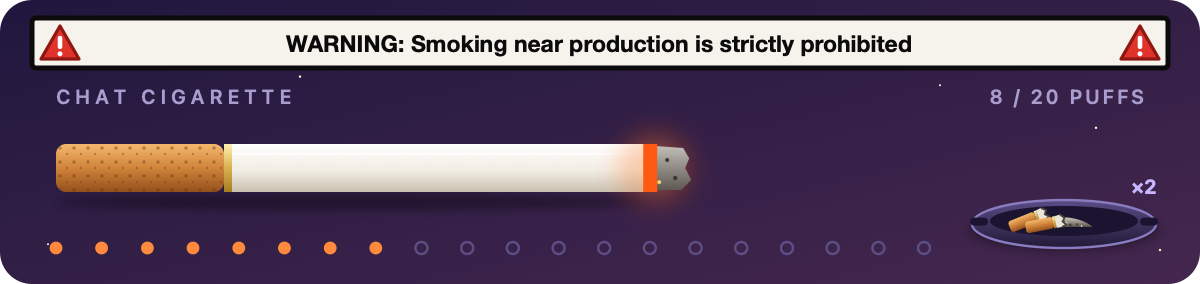
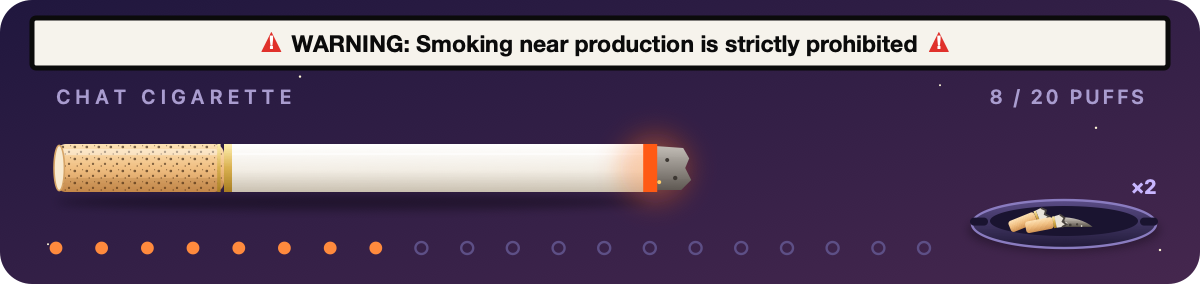
Warning signs glued to both sides of the centred sentence; lighter cigarette filter with dark specks

diff --git a/hooks/art.ts b/hooks/art.ts
@@ -68,7 +68,7 @@ function mix(a: string, b: string, t: number): string {
 function defs(night: number): string {
   return `<defs>
 <linearGradient id="sky" x1="0" y1="0" x2="1" y2="1"><stop offset="0" stop-color="${mix('#2a1d4e', '#120d26', night)}"/><stop offset="1" stop-color="${mix('#5b2f57', '#241a40', night)}"/></linearGradient>
-<linearGradient id="cork" x1="0" y1="0" x2="0" y2="1"><stop offset="0" stop-color="#f3b86d"/><stop offset=".5" stop-color="#d0843a"/><stop offset="1" stop-color="#94501d"/></linearGradient>
+<linearGradient id="cork" x1="0" y1="0" x2="0" y2="1"><stop offset="0" stop-color="#fde2b6"/><stop offset=".5" stop-color="#f0bf82"/><stop offset="1" stop-color="#cf9152"/></linearGradient>
 <linearGradient id="paper" x1="0" y1="0" x2="0" y2="1"><stop offset="0" stop-color="#ffffff"/><stop offset=".55" stop-color="#f2ede4"/><stop offset="1" stop-color="#c9c0b0"/></linearGradient>
 <linearGradient id="rollPaper" x1="0" y1="0" x2="0" y2="1"><stop offset="0" stop-color="#efdcb6"/><stop offset=".45" stop-color="#d9bf8f"/><stop offset="1" stop-color="#a4855a"/></linearGradient>
 <linearGradient id="herbTint" x1="0" y1="0" x2="0" y2="1"><stop offset="0" stop-color="#7d7a3a" stop-opacity=".04"/><stop offset=".6" stop-color="#5f6a2c" stop-opacity=".12"/><stop offset="1" stop-color="#4a4a22" stop-opacity=".22"/></linearGradient>
@@ -82,7 +82,7 @@ function defs(night: number): string {
 <radialGradient id="leafGlow"><stop offset="0" stop-color="#ff9a3c" stop-opacity=".45"/><stop offset="1" stop-color="#ff9a3c" stop-opacity="0"/></radialGradient>
 <filter id="blur" x="-50%" y="-50%" width="200%" height="200%"><feGaussianBlur stdDeviation="2.2"/></filter>
 <filter id="soft" x="-50%" y="-50%" width="200%" height="200%"><feGaussianBlur stdDeviation="5"/></filter>
-<pattern id="dots" width="7" height="7" patternUnits="userSpaceOnUse"><circle cx="2" cy="2" r=".9" fill="#6b3510" opacity=".45"/><circle cx="5.5" cy="5" r=".7" fill="#6b3510" opacity=".35"/></pattern>
+<pattern id="dots" width="6" height="6" patternUnits="userSpaceOnUse"><circle cx="1.4" cy="1.5" r=".75" fill="#2a1506" opacity=".6"/><circle cx="4.5" cy="3.9" r=".65" fill="#2a1506" opacity=".55"/><circle cx="2.6" cy="5" r=".45" fill="#3d2410" opacity=".5"/><circle cx="5.3" cy=".9" r=".4" fill="#3d2410" opacity=".45"/></pattern>
 <pattern id="herb" width="9" height="7" patternUnits="userSpaceOnUse"><circle cx="1.5" cy="2.5" r="1" fill="#55602a" opacity=".42"/><circle cx="6" cy="5.2" r=".85" fill="#3c4a1d" opacity=".42"/><circle cx="7" cy="1.3" r=".55" fill="#7d8a3e" opacity=".38"/><circle cx="3.6" cy="5.9" r=".5" fill="#5e4a27" opacity=".45"/></pattern>
 <pattern id="fiber" width="23" height="5" patternUnits="userSpaceOnUse"><line x1="0" y1="1" x2="14" y2="1.4" stroke="#f3e2bf" stroke-width=".5" opacity=".7"/><line x1="8" y1="3.6" x2="21" y2="3.2" stroke="#a88a5c" stroke-width=".45" opacity=".55"/></pattern>
 <linearGradient id="ashHeap" x1="0" y1="0" x2="0" y2="1"><stop offset="0" stop-color="#cfc9c0"/><stop offset=".6" stop-color="#8e877d"/><stop offset="1" stop-color="#544e47"/></linearGradient>
@@ -98,18 +98,27 @@ function frame(h: number, night: number): string {
 
 // ───────────── تحذير الباكيت ─────────────
 
-// مثلث أحمر فيه علامة تعجب بيضا (⚠) — على طرفي الشريط (كريم: أحمر مش أصفر).
-function warnIcon(x: number, y: number): string {
-  return `<g transform="translate(${x} ${y})"><path d="M 0 -8.5 L 9.5 8 L -9.5 8 Z" fill="#e0312b" stroke="#8e1712" stroke-width="1.6" stroke-linejoin="round"/>
-<rect x="-1.15" y="-3.6" width="2.3" height="6.6" rx="1" fill="#ffffff"/><circle cx="0" cy="5.4" r="1.25" fill="#ffffff"/></g>`
+// مثلث أحمر مليان فيه علامة تعجب بيضا، لازق بالجملة من الجهتين — جزء من نفس السطر،
+// فبيمشي مع الجملة مهما كان طولها. ▲ بخط Arial (عرضه 1em بالماك وويندوز) و«!» فوقه بالنص.
+// السطر كله من اليسار لليمين؛ الجملة العربي/العبري بقطعة لحالها من اليمين لليسار جوّاته.
+function sign(): string {
+  const tri = 13.9
+  const bang = 3
+  const back = -(tri / 2 + bang / 2)
+  const fwd = tri / 2 - bang / 2
+  return (
+    `<tspan fill="#e0312b" font-family="Arial, 'Apple Symbols', sans-serif" font-size="14" font-weight="400">\u25B2</tspan>` +
+    `<tspan dx="${back.toFixed(2)}" dy="-1.3" fill="#ffffff" font-family="Arial, sans-serif" font-size="9" font-weight="900">!</tspan>` +
+    `<tspan dx="${fwd.toFixed(2)}" dy="1.3"> </tspan>`
+  )
 }
 
 // شريط أبيض بإطار أسود متل تحذيرات الباكيت الحقيقية. بالرسمة المتحركة كل التحذيرات
 // جوّاته وبيتبدّلوا لحالهم كل 5 ثواني (بلا إعادة تحميل)؛ بالصورة الثابتة بيبيّن الأول بس.
 function warningStrip(texts: readonly string[], ln: Lang, animated: boolean): string {
-  // الجملة بالنص (كريم)، ومثلث أحمر من الجهتين.
+  // الجملة بالنص، والمثلث الأحمر لازق فيها من الجهتين (كريم).
   const rtl = ln !== 'en'
-  const attrs = `x="300" y="25.6" text-anchor="middle"${rtl ? ' direction="rtl"' : ''} font-family="'Helvetica Neue', Arial, sans-serif" font-size="11.5" font-weight="800" fill="#0b0b0b"`
+  const attrs = `x="300" y="25.6" text-anchor="middle" font-family="'Helvetica Neue', Arial, sans-serif" font-size="11.5" font-weight="800" fill="#0b0b0b"`
   const list = animated ? texts : texts.slice(0, 1)
   const n = list.length
   const each = 5
@@ -117,7 +126,9 @@ function warningStrip(texts: readonly string[], ln: Lang, animated: boolean): st
   const e = (0.35 / T).toFixed(4)
   const lines = list
     .map((t, i) => {
-      if (n === 1) return `<text ${attrs}>${esc(t)}</text>`
+      const words = rtl ? `<tspan direction="rtl" unicode-bidi="embed">${esc(t)}</tspan>` : esc(t)
+      const body = `${sign()}${words} ${sign()}`
+      if (n === 1) return `<text ${attrs}>${body}</text>`
       const a = (i / n).toFixed(4)
       const b = ((i + 1) / n).toFixed(4)
       const ae = (i / n + Number(e)).toFixed(4)
@@ -128,12 +139,10 @@ function warningStrip(texts: readonly string[], ln: Lang, animated: boolean): st
           : i === n - 1
             ? `values="0;0;1;1;0" keyTimes="0;${a};${ae};${be};1"`
             : `values="0;0;1;1;0;0" keyTimes="0;${a};${ae};${be};${b};1"`
-      return `<text ${attrs} opacity="${i === 0 ? 1 : 0}">${esc(t)}<animate attributeName="opacity" dur="${T}s" repeatCount="indefinite" ${anim}/></text>`
+      return `<text ${attrs} opacity="${i === 0 ? 1 : 0}">${body}<animate attributeName="opacity" dur="${T}s" repeatCount="indefinite" ${anim}/></text>`
     })
     .join('\n')
   return `<rect x="16" y="9" width="568" height="25" rx="2" fill="#f6f3ec" stroke="#0b0b0b" stroke-width="2.5"/>
-${warnIcon(30, 21.5)}
-${warnIcon(570, 21.5)}
 ${lines}`
 }
 
@@ -160,11 +169,16 @@ function unlitTip(end: number, cy: number, hh: number, isJoint: boolean): string
 <circle cx="${end + 1}" cy="${cy - hh / 3}" r=".9" fill="#3a2a14"/><circle cx="${end + 1.5}" cy="${cy + hh / 3}" r=".8" fill="#3a2a14"/>`
 }
 
+// فلتر السيجارة: فلين فاتح بنقاط سودا، لمعة فوق، ظل تحت، فتحة الفلتر مبيّنة، وخطّين دهبي.
 function cigaretteBody(end: number, cy: number): string {
   const y0 = cy - 12
   return `
 <rect x="28" y="${y0}" width="84" height="24" rx="5" fill="url(#cork)"/>
 <rect x="28" y="${y0}" width="84" height="24" rx="5" fill="url(#dots)"/>
+<rect x="31" y="${y0 + 2.5}" width="78" height="3.2" rx="1.6" fill="#ffffff" opacity=".35"/>
+<rect x="28" y="${y0 + 17}" width="84" height="7" rx="3.5" fill="#8a5420" opacity=".16"/>
+<ellipse cx="29.6" cy="${cy}" rx="2.6" ry="11.3" fill="#f8ead0" stroke="#d6a466" stroke-width=".8"/>
+<rect x="108.6" y="${y0}" width="1.7" height="24" fill="url(#gold)"/>
 <rect x="112" y="${y0}" width="4" height="24" fill="url(#gold)"/>
 <rect x="116" y="${y0}" width="${Math.max(0, end - 116).toFixed(1)}" height="24" fill="url(#paper)"/>
 <line x1="116" y1="${y0 + 5}" x2="${end.toFixed(1)}" y2="${y0 + 5}" stroke="#ffffff" stroke-width=".8" opacity=".9"/>`

diff --git a/hooks/register.tsx b/hooks/register.tsx
@@ -370,7 +370,7 @@ export const register: Register = on => {
       const f = Math.min(1, s.puffs / PUFFS)
       const left = Math.round(paperCells * (1 - f))
       const isJoint = kind === 'joint'
-      const filter = isJoint ? '#b08b58' : '#d0843a'
+      const filter = isJoint ? '#b08b58' : '#f0bf82'
       const paper = isJoint
         ? Array.from({ length: left }, (_, i) => RAMP[Math.min(4, Math.floor((i / paperCells) * 5))]).join('')
         : '█'.repeat(left)
@@ -404,7 +404,7 @@ export const register: Register = on => {
         <Text key="ash" color="#9a948b">{ashCells(isOut ? 1 : f)}</Text>,
         <Text key="trayR" color="#8a7cc0">╯</Text>,
         ...day.butts.slice(-6).map((b, i) => (
-          <Text key={`b${i}`} color={b === 'joint' ? '#b08b58' : '#d0843a'}>▬</Text>
+          <Text key={`b${i}`} color={b === 'joint' ? '#b08b58' : '#f0bf82'}>▬</Text>
         )),
       ]
       if (day.butts.length > 0) tray.push(<Text key="count" color="#c8b6ff" bold>{` ×${day.butts.length}`}</Text>)
@@ -422,15 +422,17 @@ export const register: Register = on => {
       if (isOut) {
         rows.push(<Text key="stats" color="#c8b6ff" bold>{card}</Text>)
       } else {
-        // التحذير بنص الشريط، ومربّع أحمر فيه ⚠ من الجهتين.
-        const room = inner - 6
+        // التحذير بنص الشريط، والمثلث الأحمر لازق فيه من الجهتين.
         const body = ` ${warn} `
-        const padL = Math.max(0, Math.floor((room - body.length) / 2))
+        const padL = Math.max(0, Math.floor((inner - body.length - 6) / 2))
+        const padR = Math.max(0, inner - padL - body.length - 6)
         rows.push(
           <Box key="warn" flexDirection="row">
+            <Text inverse>{' '.repeat(padL)}</Text>
             <Text inverse bold color="#e0312b">{' ⚠ '}</Text>
-            <Text inverse bold wrap="truncate">{(' '.repeat(padL) + body).padEnd(room)}</Text>
+            <Text inverse bold wrap="truncate">{body}</Text>
             <Text inverse bold color="#e0312b">{' ⚠ '}</Text>
+            <Text inverse>{' '.repeat(padR)}</Text>
           </Box>,
         )
       }

diff --git a/README.md b/README.md
@@ -37,7 +37,7 @@ claude plugin update chat-cigarette@chat-cigarette
 | | |
 |---|---|
 | 🔥 كل رسالة = نَفَس | 20 نَفَس بالسيجارة. الإشعارات ورسائل البرامج ما بتنحسب |
-| ⚠ تحذير الباكيت | شريط أبيض بإطار أسود ومثلث أحمر ⚠ متل الباكيت الحقيقي. 10 تحذيرات بكل لغة جوّا الرسمة، وبيتبدّلوا **لحالهم** كل 5 ثواني («WARNING: Your manager can smell this commit») |
+| ⚠ تحذير الباكيت | شريط أبيض بإطار أسود متل الباكيت الحقيقي، والجملة بالنص ومثلث أحمر ⚠ لازق فيها من الجهتين. 10 تحذيرات بكل لغة جوّا الرسمة، وبيتبدّلوا **لحالهم** كل 5 ثواني («WARNING: Your manager can smell this commit») |
 | 💬 جملة جديدة | **50 جملة بكل لغة**: بالأول خفيفة، بالنص «قوم تحرّك»، بالآخر «جهّز حالك ترتاح». كل سيجارة بتبلّش من مكان جديد، عشان ما تزهق |
 | 🌆 السما | بتبلّش غروب وبتغمق لليل مع كل نَفَس |
 | 🧺 المكتة | مكتة (منفضة) بآخر السيجارة: كومة الرماد فيها بتكبر مع **كل سحبة**، وذرّات رماد بتوقع من الجمرة. وكل سيجارة بتخلص بتترك عقب بيضل لآخر اليوم (اليوم بيبلّش 5 الصبح) |
